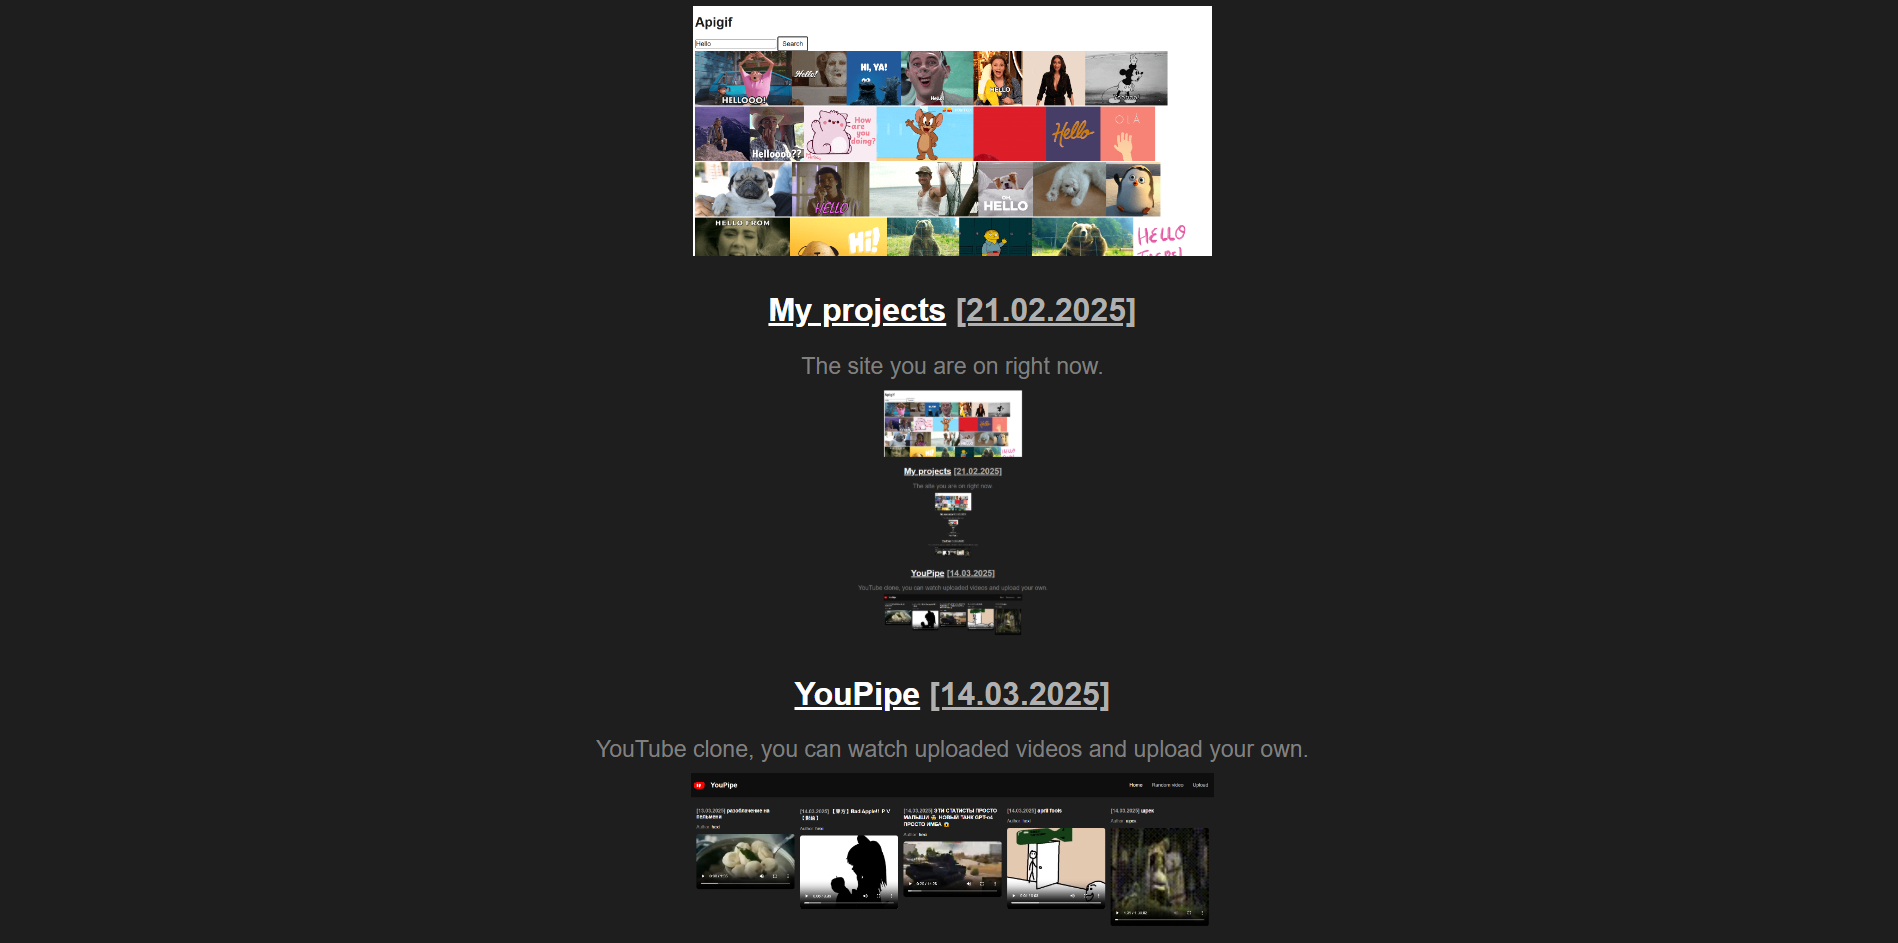
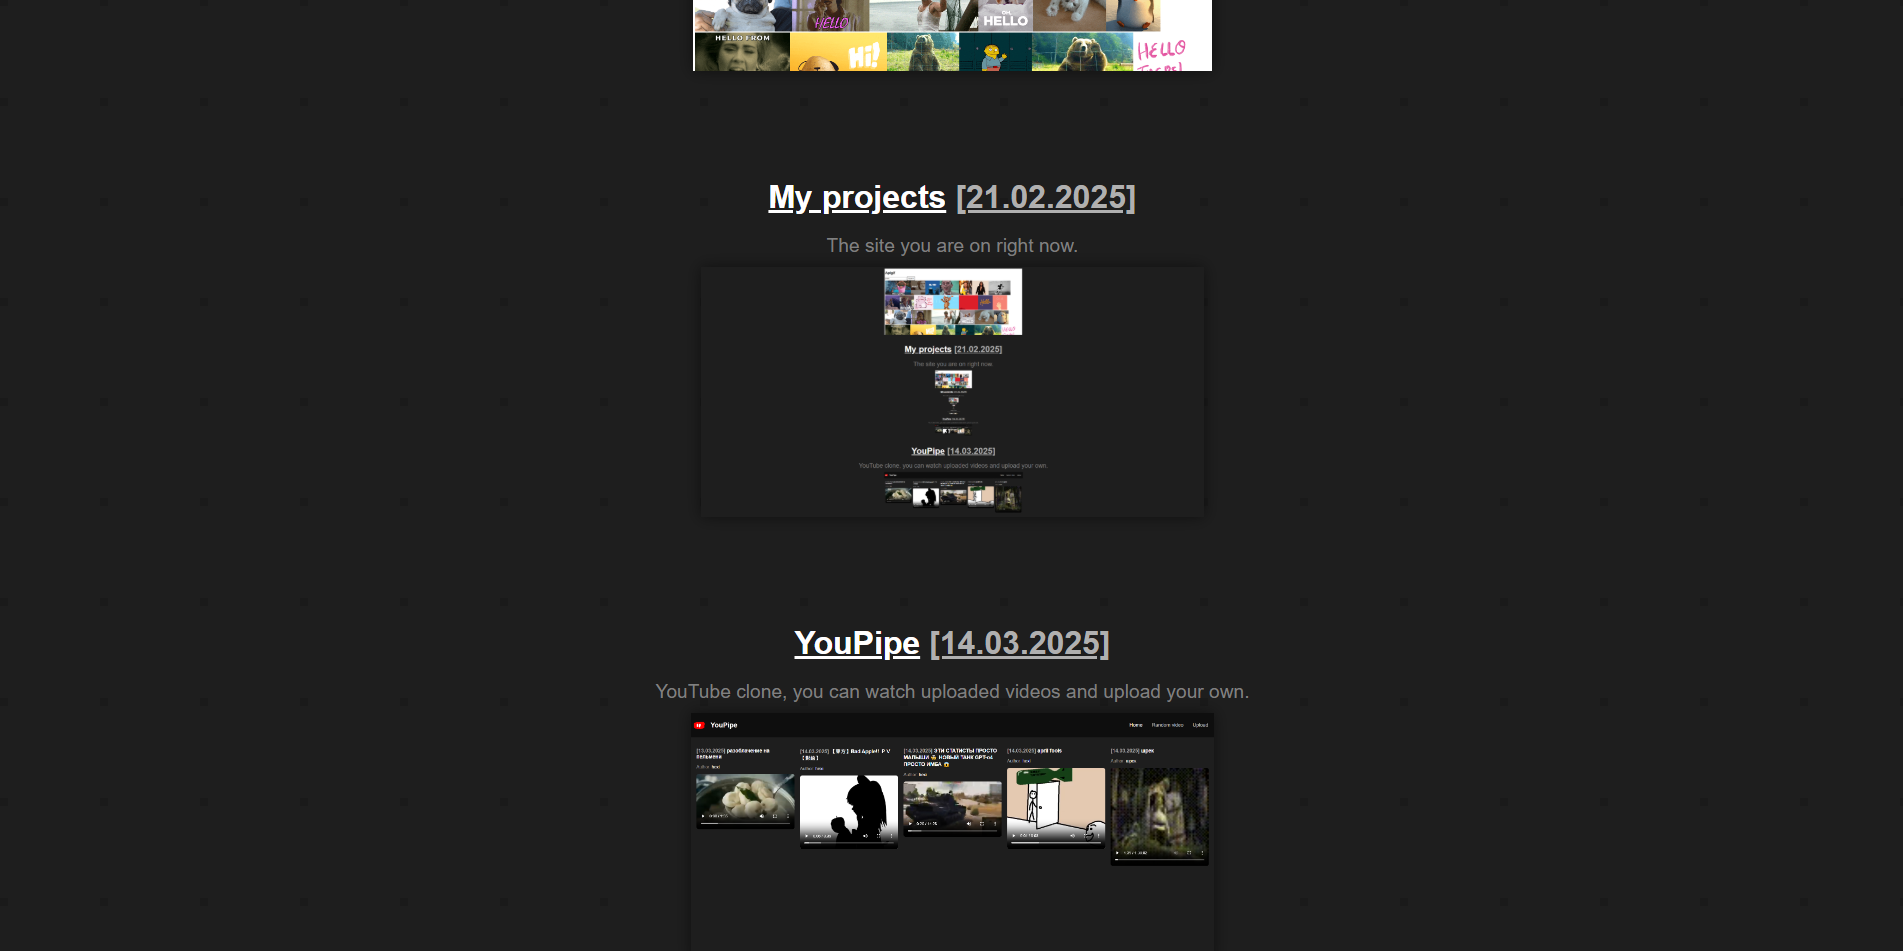
Big update, new design and added 2 projects
Fixed design
Added year splitting
Fixed code

Changed region(s): [[0.3419, 0.0, 0.6528, 0.5536], [0.3109, 0.5843, 0.6839, 0.9841]]

diff --git a/index.js b/index.js
@@ -67,26 +67,35 @@ const sites = [
     url: "https://hexique.github.io/Zina/",
     date: "16.11.2025",
     desc: "Fake dating site to prank my classmate.",
+    } , {name: "Breathe if prime",
+    url: "https://hexique.github.io/Breathe-if-prime/",
+    date: "24.12.2025",
+    desc: "A game, where you can breathe only when timer shows prime number.",
+    } , {name: "1,952,184 converter",
+    url: "https://hexique.github.io/1952184-converter/",
+    date: "26.03.2026",
+    desc: "Time converters for one of my streams.",
     }
 ];
 
 for(let i=0; i<sites.length; i++){
-    const img = document.createElement("img");
-    const title = document.createElement("h3");
-    const desc = document.createElement("p");
+    const main = document.getElementById("main")
 
-    title.innerHTML = `<a href=${sites[i].url} target="_blank">${sites[i].name}</a> <a class="date" href=https://github.com/hexique/${sites[i].url.split('/')[3]} target="_blank">[${sites[i].date}]</a>`;
+    if(i != 0 && parseInt(sites[i].date.split(".")[2]) > parseInt(sites[i-1].date.split(".")[2])){
+        main.innerHTML += `<h1 class="year">${sites[i].date.split(".")[2]}</h1>`
+    }
+
+    main.innerHTML += `<h3><a href=${sites[i].url} target="_blank">${sites[i].name}</a> <a class="date" href=https://github.com/hexique/${sites[i].url.split('/')[3]} target="_blank">[${sites[i].date}]</a></h3>`;
+    main.innerHTML += `<p>${sites[i].desc}</p></a>`;
+    main.innerHTML += `<img src="img/${i}.png" alt="Image №${i}: ${sites[i].name}" height="250"><br><br><br><br><br>`;
+
+
+}
+/*  title.innerHTML = `<a href=${sites[i].url} target="_blank">${sites[i].name}</a> <a class="date" href=https://github.com/hexique/${sites[i].url.split('/')[3]} target="_blank">[${sites[i].date}]</a>`;
     desc.innerHTML = `<p>${sites[i].desc}</p></a>`;
     img.src = `img/${i}.png`;
     img.alt = `Image №${i}: ${sites[i].name}`;
-    img.height = `250`
-
-    document.body.append(title);
-    document.body.append(desc);
-    document.body.append(img);
-}
-/* <h3><a href="https://hexique.github.io/unix2time/">Unix 2 time</a> [10.02.2025]</h3>
-<p>Converter from unix</p> */
+    img.height = `250` */
 
 
 

diff --git a/style.css b/style.css
@@ -1,6 +1,7 @@
 body{
   background-color: #1e1e1e;
   text-align: center;
+  background-image: url(img/bg.png);
 }
 
 a{
@@ -10,6 +11,11 @@ a{
 .date{
   color: #b0b0b0;
   text-decoration-color: #b0b0b0;;
+}
+
+.year{
+  color: #ffffff;
+  font-size: 10em;
 }
 
 p{

diff --git a/index.html b/index.html
@@ -8,6 +8,8 @@
 <body>
     <h1>All my web projects</h1>
 
+    <div id="main"></div>
+
     <script src="index.js"></script>
 </body>
 </html>
